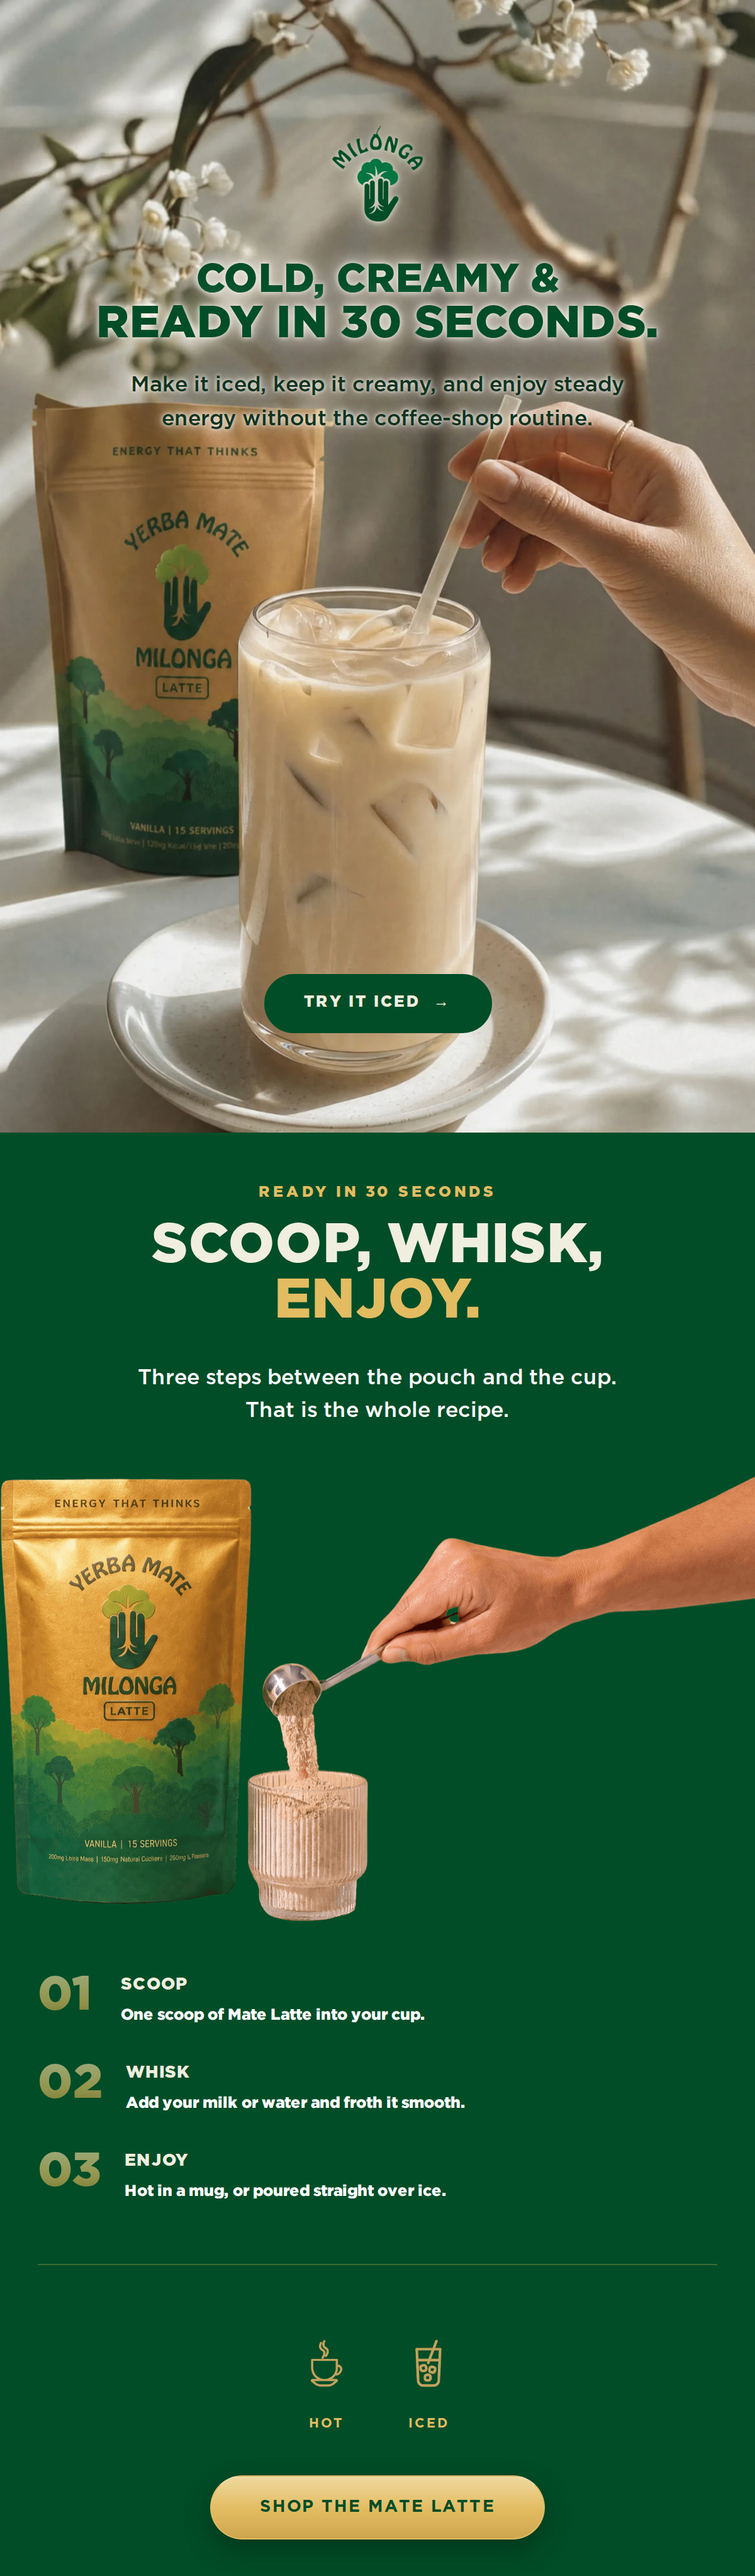
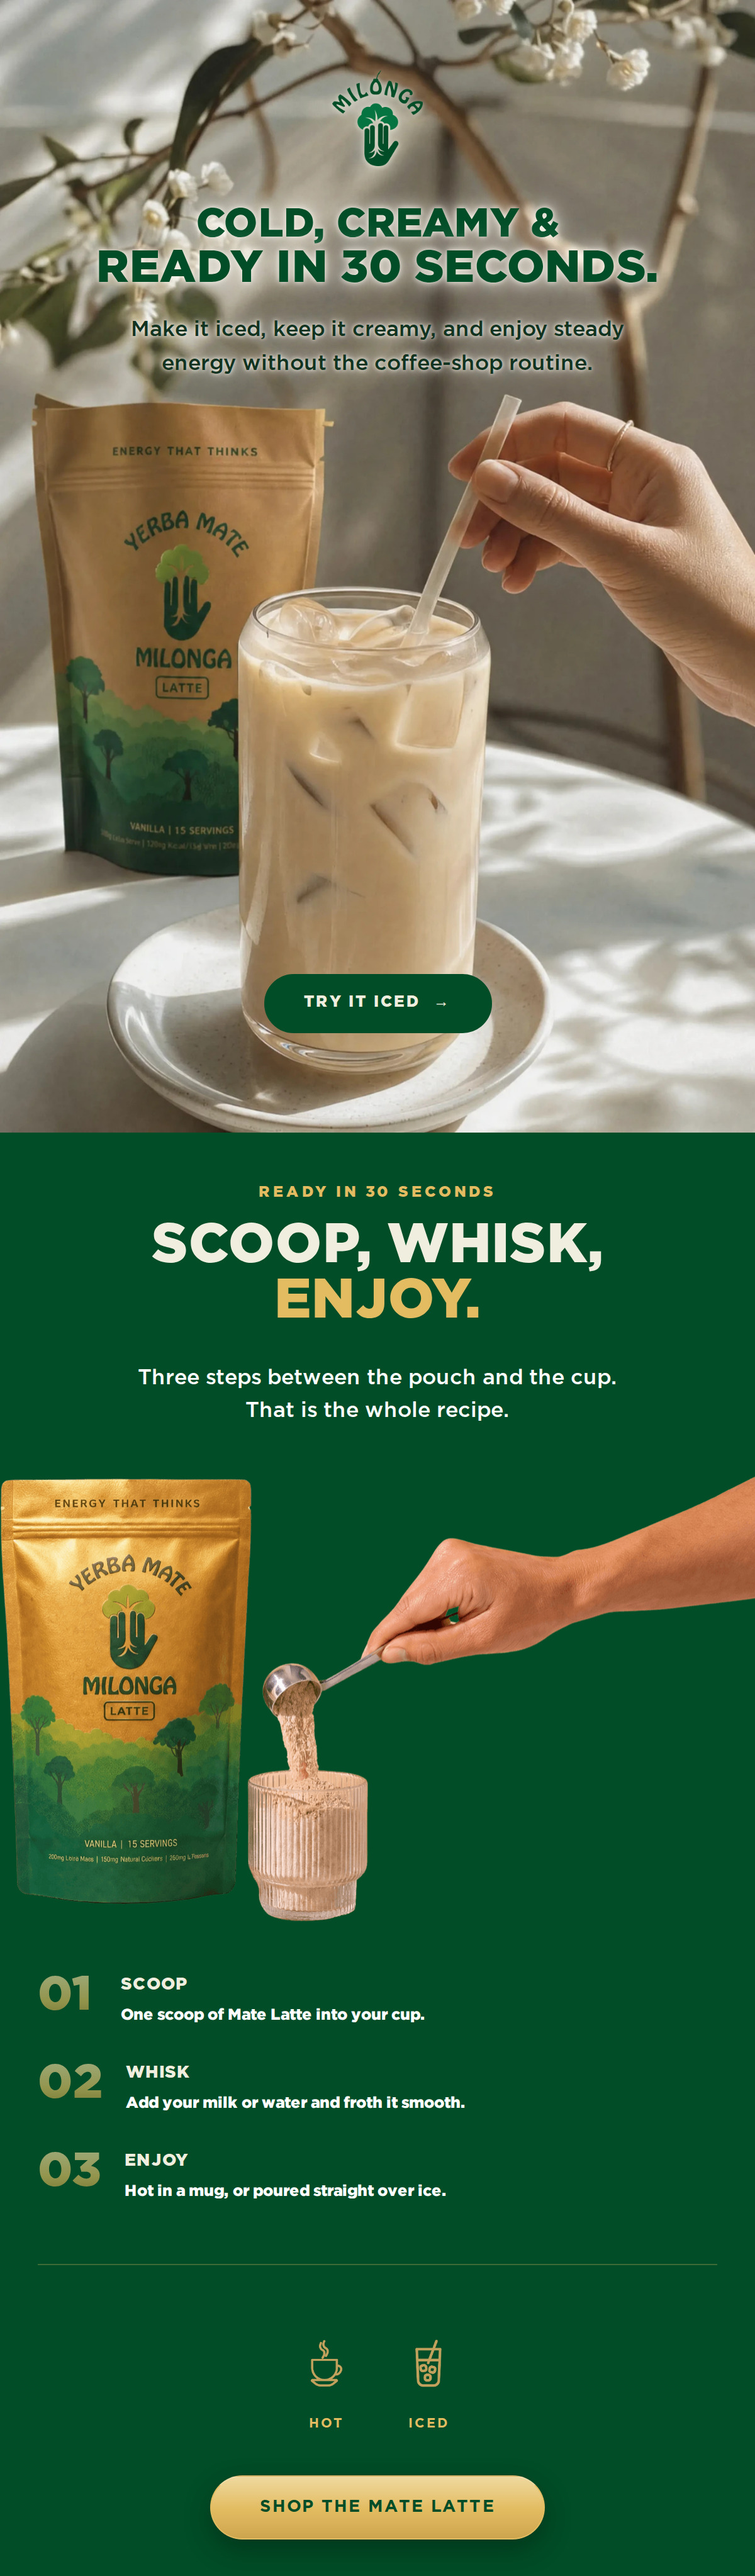
email: how-to-make-it, the whole opening block moves up
top 100 -> 56, which lifts the wordmark, the title and the paragraph together
by 44 units.

The reason the last two rounds barely moved it: logoTop was inert here. On a
CENTRED stack the wordmark renders inside the stack, so `top` is the control;
logoTop only applies when the copy is left-aligned and the mark comes out of
the column to centre itself on the frame. Removed, with a note in its place.

Claude-Session: https://claude.ai/code/session_01NhEtXPnfeCJfN73SqBkUZ5

Changed region(s): [[0.1233, 0.031, 0.8633, 0.1861]]

diff --git a/email-ds/emails/how-to-make-it.jsx b/email-ds/emails/how-to-make-it.jsx
@@ -39,7 +39,10 @@ function HowToMakeIt() {
       // is the brand signing the email; below about 52 it reads as a
       // watermark instead.
       logoHeight: 76,
-      logoTop: 16,
+      // No logoTop here. On a CENTRED stack the wordmark renders inside the
+      // stack, so `top` is what moves it — logoTop only applies when the copy
+      // is left-aligned and the mark comes out of the column to centre itself
+      // on the frame.
       align: 'center',
       line1: 'Cold, creamy &',
       line2: 'ready in 30 seconds.',
@@ -57,7 +60,7 @@ function HowToMakeIt() {
       size: 32,
       size2: 36,
       titleLead: 1.02,
-      top: 100,
+      top: 56,
       padLeft: 26,
       padRight: 26,
       measure: 430,
